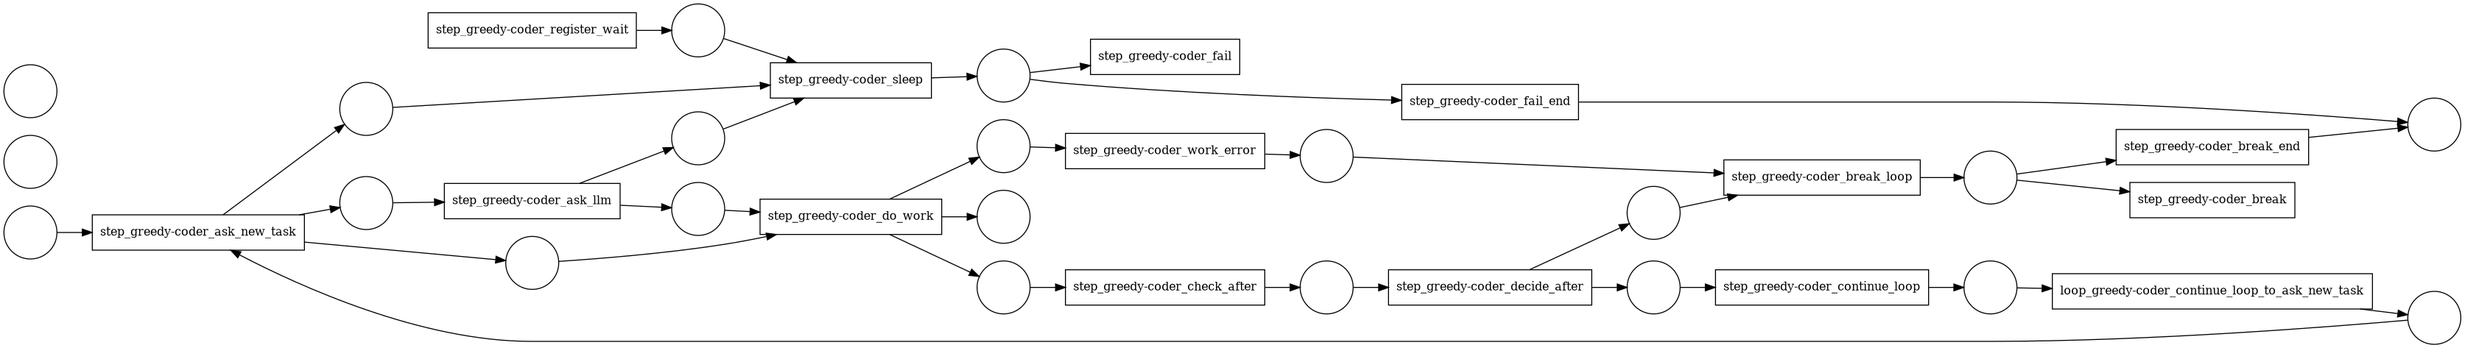
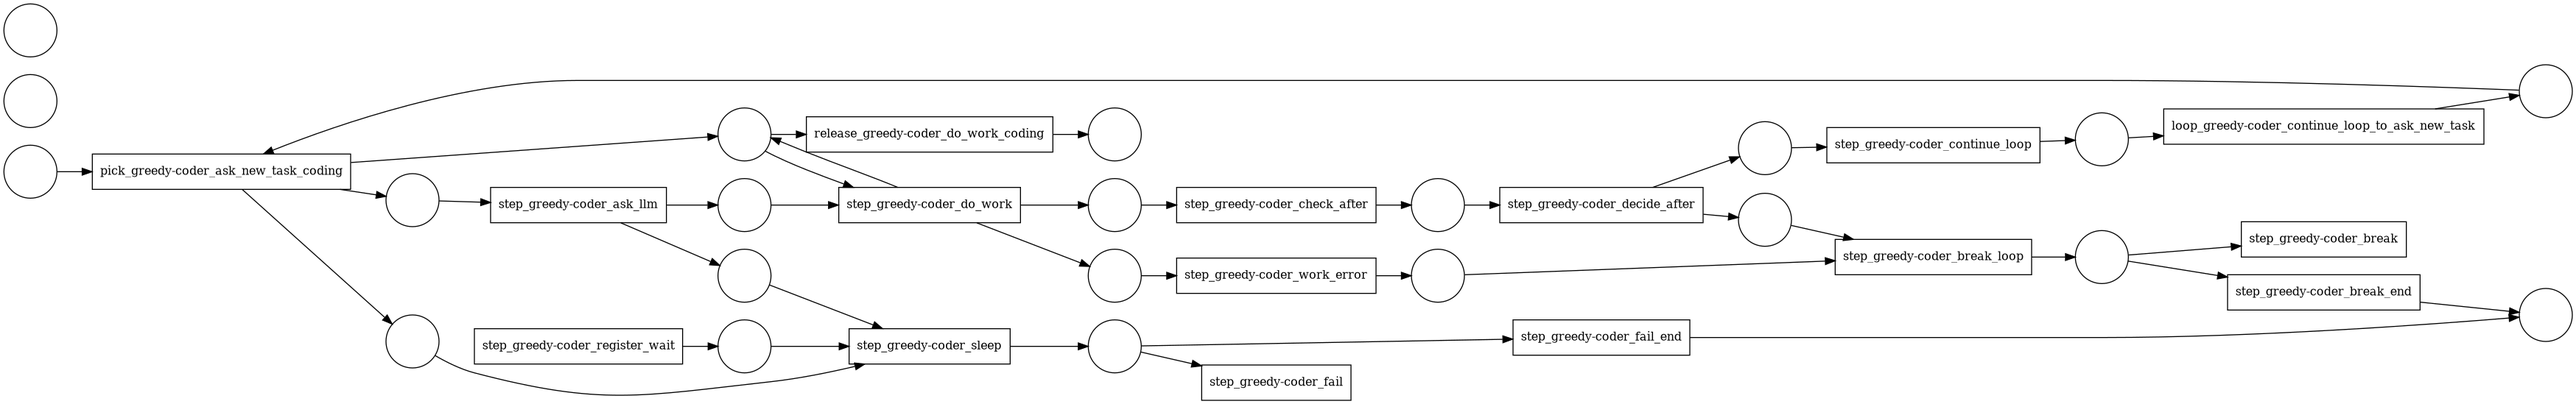
fix(diag): utilisation de data = prendre/remettre dans la MÊME place (agent_data)
- Chaque step qui utilise la data (do_work, etc.) : agent_data → agent_data
  (l'utilisation ne déplace pas la tâche).
- Les CHANGEMENTS d'état sont des transitions séparées :
    pick_<sid>_<type>    : global_<type>_attributed → agent_data
    release_<sid>_<type> : agent_data → global_<type>_done
    produce_<sid>_<type> : agent_data → agent_data + global_<type>_unattributed
- Les places de data ont des noms (agent_data, global_<type>_<etat>) visibles
  dans le graphe. PNG régénérés.

diff --git a/services/taskflow_petri.py b/services/taskflow_petri.py
@@ -211,18 +211,24 @@ def build_from_yaml(path: Path, agent_name: str = "") -> Dict[str, Any]:
         outs = list(outs_by_node.get(nid, []))
         tk, tk_types = token_class.get(nid, ("normal", []))
         if tk == "pick":
+            # pick : global_<type>_attributed → agent_data (l'agent prend la tâche)
             for t in (tk_types or ["analysis"]):
-                ins.append(f"global_{t}_attributed")
-                outs.append("agent_data")
-        elif tk == "release":
-            ins.append("agent_data")
-            for t in sorted(consumes or ["analysis"]):
-                outs.append(f"global_{t}_done")
-        elif tk == "produce":
-            ins.append("agent_data")
-            outs.append("agent_data")
-            for t in (tk_types or []):
-                outs.append(f"global_{t}_unattributed")
+                net.trans(f"pick_{name}_{nid}_{t}", ins + [f"global_{t}_attributed"],
+                          outs + ["agent_data"], "pick")
+        elif tk in ("release", "produce", "use"):
+            # UTILISATION : la data est prise et REMISE dans la même place
+            # (agent_data → agent_data) — le step travaille dessus sans la déplacer.
+            net.trans(f"step_{name}_{nid}", ins + ["agent_data"],
+                      outs + ["agent_data"], "use")
+            # effet de jeton en plus (transition séparée de changement d'état) :
+            if tk == "release":
+                for t in sorted(consumes or ["analysis"]):
+                    net.trans(f"release_{name}_{nid}_{t}", ["agent_data"],
+                              [f"global_{t}_done"], "release")
+            elif tk == "produce":
+                for t in (tk_types or []):
+                    net.trans(f"produce_{name}_{nid}_{t}", ["agent_data"],
+                              ["agent_data", f"global_{t}_unattributed"], "produce")
         elif tk == "data":
             # Skills DATA (superviseur, sans LLM) : transforme les pots globaux.
             in_et, out_et, mode = (tk_types or ["", "", "single"])
@@ -232,7 +238,9 @@ def build_from_yaml(path: Path, agent_name: str = "") -> Dict[str, Any]:
                     outs.append(f"global_{t}_{out_et}")
             else:
                 outs.append(f"global_{out_et}_unattributed")
-        net.trans(f"step_{name}_{nid}", ins, outs, tk)
+            net.trans(f"step_{name}_{nid}", ins, outs, tk)
+        else:
+            net.trans(f"step_{name}_{nid}", ins, outs, tk)
 
     # Reliage de la BOUCLE : la place loop (arc vers vide) alimente le corps.
     for e in edges:
